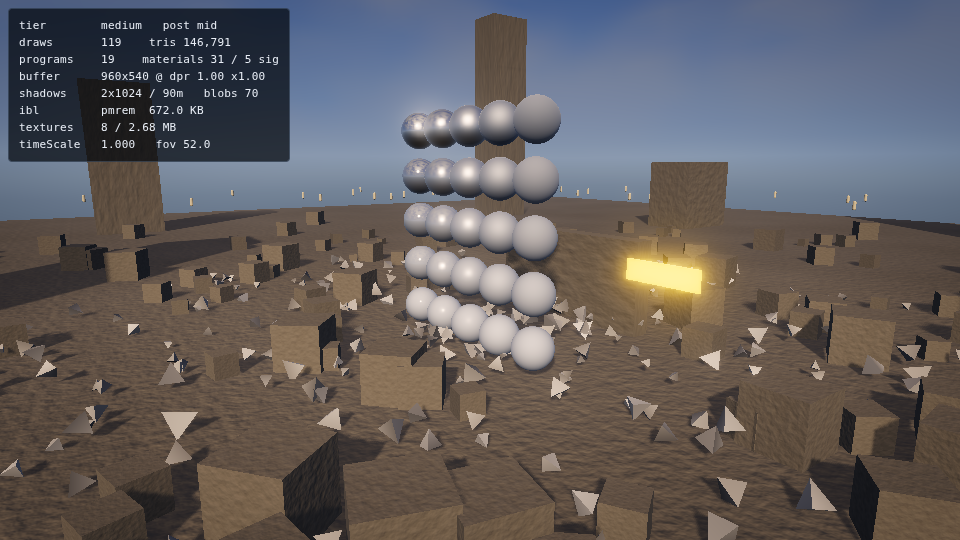
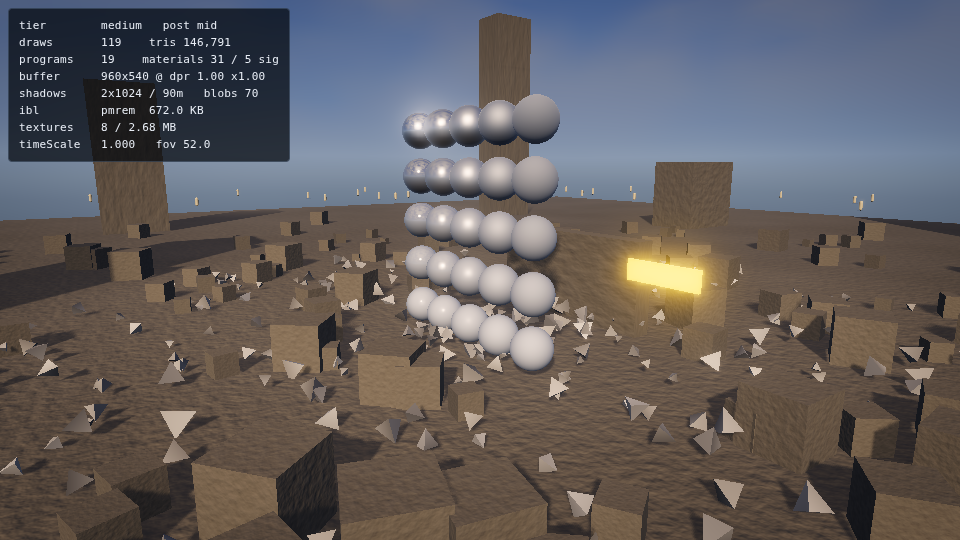
Renderer: 3-program dual-filter bloom, specular probe for the SH9 path
Two changes to the renderer core, both authorised after the program-budget
measurements came in.

1. DUAL-FILTER (KAWASE) BLOOM replaces UnrealBloomPass on the mobile tiers.
   UnrealBloomPass is nine shader programs (five per-mip separable blurs plus
   high-pass, composite, copy and blit) — more than a third of the ≤24
   whole-game budget for one effect, and with KHR_parallel_shader_compile
   unavailable every one is a synchronous main-thread link. Dual filtering
   gets the same look from two fixed kernels applied down and up a pyramid,
   plus a composite: three programs, and fewer texture fetches per pixel
   because blur width comes from pyramid depth rather than kernel size. The
   threshold/knee prefilter rides in the downsample shader behind a
   uniform-coherent branch instead of costing a fourth program.

   MID tier: 24 -> 19 live programs, i.e. 5 spare against the budget.
   HIGH keeps UnrealBloomPass; desktop is not budget-bound.

2. SPECULAR-ONLY PROBE alongside SH9 diffuse on the mobile IBL path.
   Spherical harmonics are band-limited to the second order and cannot
   represent a reflection, so an SH-only path renders smooth metal BLACK —
   measured at 33/255 on the test grid. City Z is corrugated iron, chainlink,
   fire escapes and shutters; that is not a shippable state. A 32px-cube
   PMREM built from a downsampled source now supplies specular for 336 KB,
   against the tens of megabytes a real HDRI's full PMREM would cost.
[…]

diff --git a/harness/renderer.verify.ts b/harness/renderer.verify.ts
@@ -56,11 +56,28 @@ const VIEWPORT = { width: 960, height: 540 };
 const PROGRAM_BUDGET = 24;
 
 /**
- * The top row of the sphere grid — metalness 1.0 — at the harness's fixed
- * camera pose. Without a specular probe these pixels are near-black; with one
- * they carry a sky reflection.
+ * The body of the smoothest, most metallic sphere in the grid (metalness 1.0,
+ * roughness 0.045) at the harness's fixed camera pose. Deliberately a small box
+ * INSIDE one sphere rather than a band across the row: a wider crop is mostly
+ * sky and ground, whose brightness swamps the very thing being measured.
+ *
+ * Measured here: 33/255 with spherical harmonics alone, 120/255 once the
+ * specular probe exists. That is the whole "black metal" problem in one number.
  */
-const METAL_SPHERE_CROP = { left: 380, top: 95, width: 210, height: 65 };
+const METAL_SPHERE_CROP = { left: 404, top: 110, width: 34, height: 34 };
+
+/** The whole sphere grid, saved as small side-by-side evidence crops. */
+const SPHERE_GRID_CROP = { left: 370, top: 85, width: 250, height: 300 };
+
+/** Playwright's screenshot `clip` uses x/y; sharp's `extract` uses left/top. */
+function toClip(region: { left: number; top: number; width: number; height: number }): {
+  x: number;
+  y: number;
+  width: number;
+  height: number;
+} {
+  return { x: region.left, y: region.top, width: region.width, height: region.height };
+}
 
 const SWIFTSHADER_ARGS = [
   '--use-angle=swiftshader',
@@ -271,17 +288,36 @@ async function analyse(file: string): Promise<PixelReport> {
  * Used to make a claim about a specific part of the image rather than the frame
  * as a whole — "the metal spheres are not black" is invisible in a whole-frame
  * mean, because they are a small fraction of the pixels.
+ *
+ * NOTE: `sharp(...).extract(...).stats()` does NOT crop. `stats()` reads the
+ * INPUT image and ignores everything queued in the pipeline, so the obvious
+ * spelling silently returns whole-frame statistics and any assertion built on
+ * it passes vacuously. The crop has to be materialised through `toBuffer()`
+ * first, which is why this computes the statistics by hand.
  */
 async function analyseRegion(
   file: string,
   region: { left: number; top: number; width: number; height: number }
 ): Promise<{ mean: number; stdDev: number }> {
-  const stats = await sharp(file).extract(region).stats();
-  const channels = stats.channels.slice(0, 3);
-  return {
-    mean: channels.reduce((sum, channel) => sum + channel.mean, 0) / channels.length,
-    stdDev: channels.reduce((sum, channel) => sum + channel.stdev, 0) / channels.length,
-  };
+  const { data, info } = await sharp(file)
+    .extract(region)
+    .removeAlpha()
+    .raw()
+    .toBuffer({ resolveWithObject: true });
+
+  const count = info.width * info.height * info.channels;
+  if (count === 0) return { mean: 0, stdDev: 0 };
+
+  let total = 0;
+  for (let i = 0; i < count; i++) total += data[i]!;
+  const mean = total / count;
+
+  let variance = 0;
+  for (let i = 0; i < count; i++) {
+    const delta = data[i]! - mean;
+    variance += delta * delta;
+  }
+  return { mean, stdDev: Math.sqrt(variance / count) };
 }
 
 /**
@@ -470,15 +506,51 @@ async function verifyTier(
         `[low] only ${snap.specularOnlyMaterials}/${snap.materialCount} materials cancel ` +
           `the environment map's diffuse term; the rest are double-lit`
       );
-      const metal = await analyseRegion(shotPath, METAL_SPHERE_CROP);
+      // A/B the probe against itself. Asserting an absolute brightness would
+      // only prove the frame is not black; asserting the DIFFERENCE proves the
+      // probe is what makes the metal legible.
+      await page.evaluate(() => window.__RENDER_HARNESS__?.setCameraFrozen(true));
+      await waitFrames(page, 2);
+
+      const withProbeShot = path.join(OUT_DIR, 'renderer-metal-with-probe.png');
+      await page.screenshot({ path: withProbeShot, type: 'png', clip: toClip(SPHERE_GRID_CROP) });
+      const withProbe = await analyseRegion(shotPath, METAL_SPHERE_CROP);
+
+      await page.evaluate(() => window.__RENDER_HARNESS__?.setSpecularProbe(false));
+      await waitFrames(page, 3);
+      const withoutShot = path.join(OUT_DIR, 'renderer-metal-sh-only.png');
+      await page.screenshot({ path: withoutShot, type: 'png', clip: toClip(SPHERE_GRID_CROP) });
+      const noProbeFull = path.join(OUT_DIR, 'renderer-low-no-specular.tmp.png');
+      await page.screenshot({ path: noProbeFull, type: 'png' });
+      const withoutProbe = await analyseRegion(noProbeFull, METAL_SPHERE_CROP);
+      await rm(noProbeFull, { force: true });
+
+      await page.evaluate(() => {
+        window.__RENDER_HARNESS__?.setSpecularProbe(true);
+        window.__RENDER_HARNESS__?.setCameraFrozen(false);
+      });
+      await Promise.all([recompress(withProbeShot), recompress(withoutShot)]);
+
       check(
-        metal.mean > 30,
-        `[low] the smooth-metal spheres are near-black (crop mean ${metal.mean.toFixed(1)}/255) — ` +
-          `the specular probe is not reaching them`
+        withProbe.mean - withoutProbe.mean > 40,
+        `[low] the specular probe barely changed the smooth metal sphere ` +
+          `(${withoutProbe.mean.toFixed(1)} -> ${withProbe.mean.toFixed(1)}/255); ` +
+          `it should go from near-black to reflective`
+      );
+      check(
+        withProbe.mean > 70,
+        `[low] the smooth-metal sphere is still dark with the probe on ` +
+          `(crop mean ${withProbe.mean.toFixed(1)}/255)`
+      );
+      check(
+        withoutProbe.mean < 60,
+        `[low] the SH-only control is not dark (${withoutProbe.mean.toFixed(1)}/255), so ` +
+          `the A/B proves nothing — the crop is probably off the sphere`
       );
       console.log(
-        `metal crop     mean ${metal.mean.toFixed(1)}/255, stdDev ${metal.stdDev.toFixed(1)} ` +
-          `(SH diffuse + ${(snap.environment.gpuBytes / 1024).toFixed(0)} KB specular probe)`
+        `metal sphere   SH only ${withoutProbe.mean.toFixed(1)}/255 -> ` +
+          `SH + ${(snap.environment.gpuBytes / 1024).toFixed(0)} KB specular probe ` +
+          `${withProbe.mean.toFixed(1)}/255 (crops saved beside the screenshots)`
       );
       check(snap.shadows.cascades === 1, `[low] expected 1 cascade, got ${snap.shadows.cascades}`);
       check(

diff --git a/harness/renderer.ts b/harness/renderer.ts
@@ -143,6 +143,11 @@ interface IRenderHarness {
    * Without this, any A/B test is confounded by the camera having moved.
    */
   setCameraFrozen(frozen: boolean): void;
+  /**
+   * Turn the SH path's specular-only probe on or off. Off is the "smooth metal
+   * renders black" state, kept reachable purely so the fix can be measured.
+   */
+  setSpecularProbe(enabled: boolean): void;
   /** Switch tier inside this context. Program counts ACCUMULATE afterwards. */
   setTier(tier: IQualityTier): void;
   /** Resolve after `count` more presented frames. */
@@ -253,10 +258,26 @@ function main(): void {
     cloudiness: 0.5,
   });
 
+  // The material library is constructed BEFORE the environment on purpose. On
+  // the SH path the environment map lights specular only, and every material
+  // has to cancel its diffuse term or it is lit twice. Building the library
+  // first means materials are born with the define instead of being recompiled
+  // a frame later.
+  const anisotropy = Math.min(
+    profile.settings.anisotropy,
+    renderer.getCapabilities().maxAnisotropy
+  );
+  const materials = new MaterialLib({ anisotropy, programBudget: 24 });
+
   const environment = new EnvironmentLighting(renderer.raw, scene, {
     mode: profile.ibl,
     showBackground: true,
     intensity: lighting.envMapIntensity,
+    // 32px cube faces: enough angular detail to read as a reflection on
+    // corrugated iron or a street lamp, small enough to be a few hundred KB
+    // instead of the tens of megabytes a real HDRI's full PMREM would cost.
+    specularCubeSize: 32,
+    onSpecularOnlyChanged: (specularOnly) => materials.setSpecularOnlyEnvironment(specularOnly),
   });
   environment.setEnvironment(skyTexture);
   environment.applyLightingState(lighting);
@@ -266,11 +287,6 @@ function main(): void {
   /* ----------------------------- materials ------------------------------ */
 
   setStatus('building materials');
-  const anisotropy = Math.min(
-    profile.settings.anisotropy,
-    renderer.getCapabilities().maxAnisotropy
-  );
-  const materials = new MaterialLib({ anisotropy, programBudget: 24 });
   // Every lit material must be registered with the shadow system, or the
   // non-CSM branch of the lighting chunk accumulates all N cascade lights and
   // the object renders N times too bright.
@@ -842,6 +858,10 @@ function main(): void {
 
     setCameraFrozen(frozen: boolean): void {
       cameraFrozen = frozen;
+    },
+
+    setSpecularProbe(enabled: boolean): void {
+      environment.setSpecularCubeSize(enabled ? 32 : 0);
     },
 
     setTier(next: IQualityTier): void {

diff --git a/src/engine/ibl.ts b/src/engine/ibl.ts
@@ -119,7 +119,7 @@ export class EnvironmentLighting implements IDisposable {
   private lastBuildMs = 0;
   private resolution = 0;
   private disposed = false;
-  private readonly specularCubeSize: number;
+  private specularCubeSize: number;
   private readonly onSpecularOnlyChanged: ((specularOnly: boolean) => void) | undefined;
   private specularOnlyActive = false;
   /** Downsampled equirect owned by the specular build; disposed with it. */
@@ -196,6 +196,22 @@ export class EnvironmentLighting implements IDisposable {
       `environment ready via ${this.modeValue} in ${this.lastBuildMs.toFixed(1)}ms ` +
         `(${(this.estimateGpuBytes() / 1024 / 1024).toFixed(2)} MB)`
     );
+  }
+
+  /**
+   * Resize (or with 0, disable) the specular-only probe and rebuild.
+   *
+   * Exists so the difference it makes can be MEASURED rather than asserted:
+   * the verification harness renders the same frozen frame with and without it
+   * and compares the metal spheres. 0 is not a shipping configuration — it is
+   * what "smooth metal renders black" looks like.
+   */
+  setSpecularCubeSize(size: number): void {
+    const next = Math.max(0, Math.round(size));
+    if (next === this.specularCubeSize) return;
+    this.specularCubeSize = next;
+    const source = this.sourceTexture;
+    if (source) this.setEnvironment(source);
   }
 
   /** Rebuild with a different path. Cheap when no environment is installed. */
